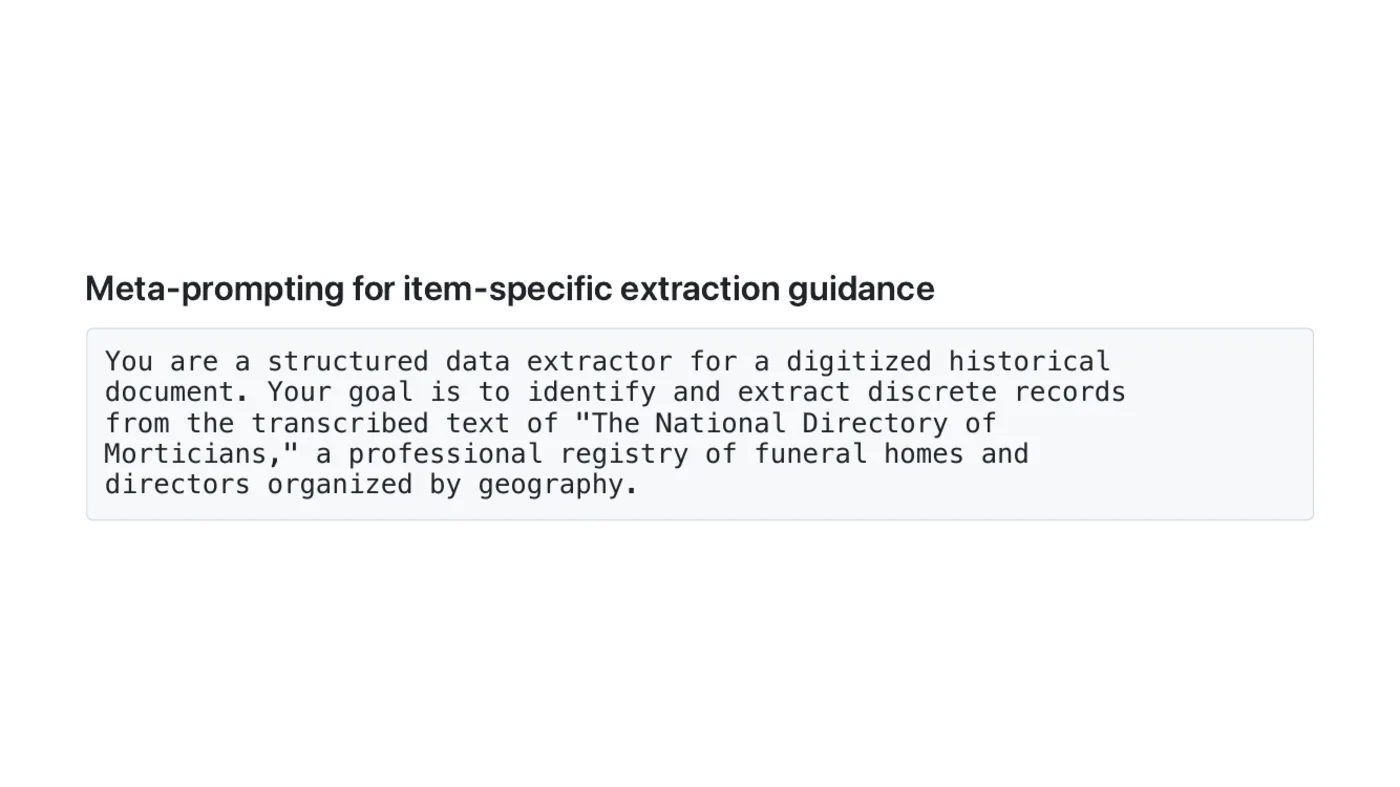
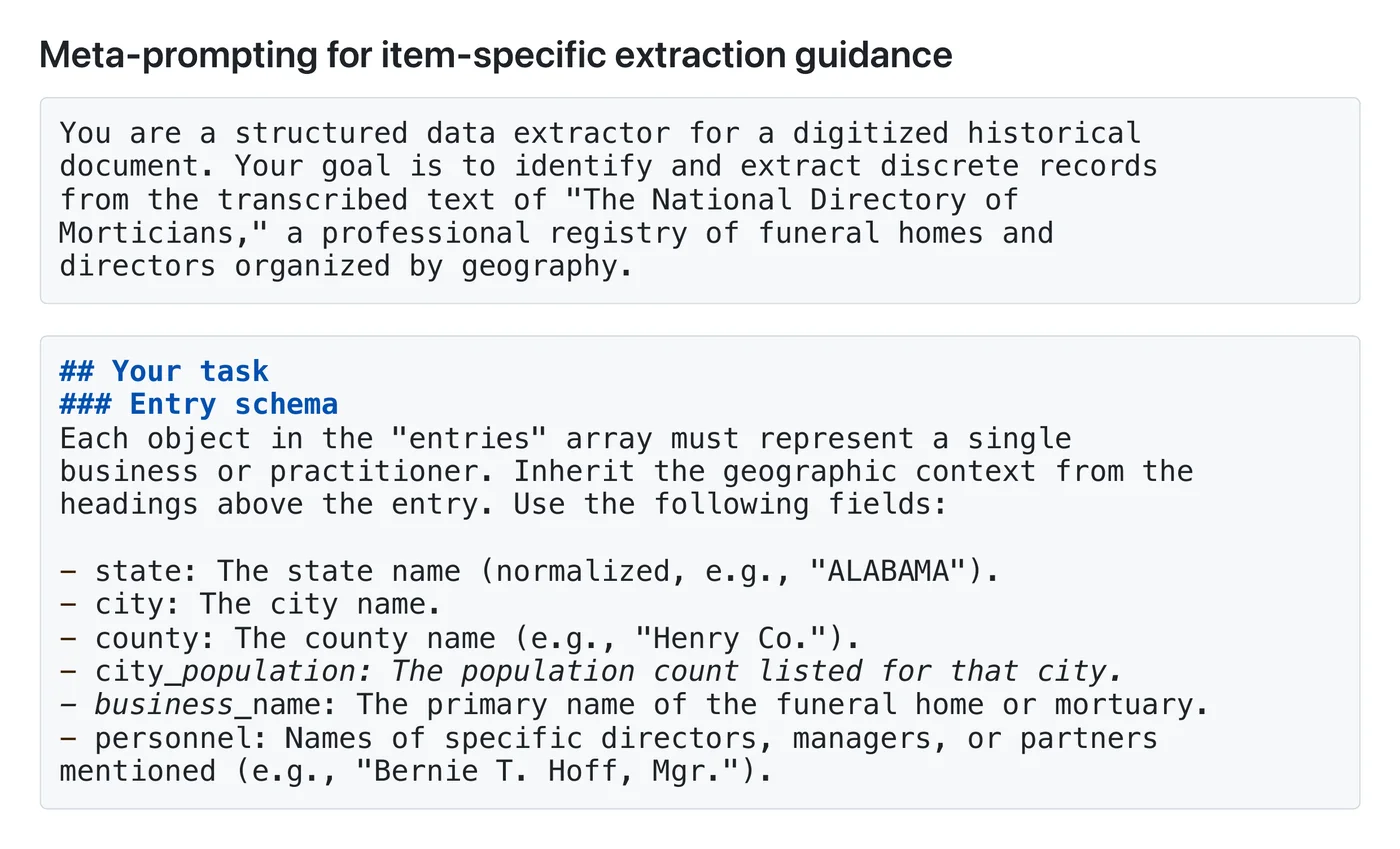
Update meta prompt images

diff --git a/content/blog/aboard-talk/index.md b/content/blog/aboard-talk/index.md
@@ -49,7 +49,7 @@ Two parts of that I think are genuinely new in the digital library context.
 
 But *you* are never going to write as good a prompt for that specific volume as the model can write for itself, after looking at a handful of representative pages. It's ok! People are bad at this; we focus on the wrong things. So the human job in my pipeline is to pick five or ten good sample pages — the key, the abbreviations table, the average page, the weird layouts, the ones with advertisements in the middle of the entries — and the model's job is to design its own OCR prompt and its own data extraction schema from those samples.
 
-![Slide showing a generated meta-prompt for the National Directory of Morticians, instructing the model to extract discrete records from the transcribed text](img/morticians-meta-prompt.webp)
+![Two slides combined: a generated meta-prompt for the National Directory of Morticians, telling the model to extract discrete records from the transcribed text, followed by the entry schema it wrote for itself — state, city, county, city_population, business_name, and personnel](img/morticians-meta-prompt.webp)
 
 **Two-pass consensus OCR.** The newer LLM-based tools produce near-flawless text but can't give you reliable bounding boxes. The older tools (Tesseract, Surya) give you bounding boxes but higher error rates on the text. So the pipeline runs both and aligns them: old tech for coordinates, LLMs for characters.
 
